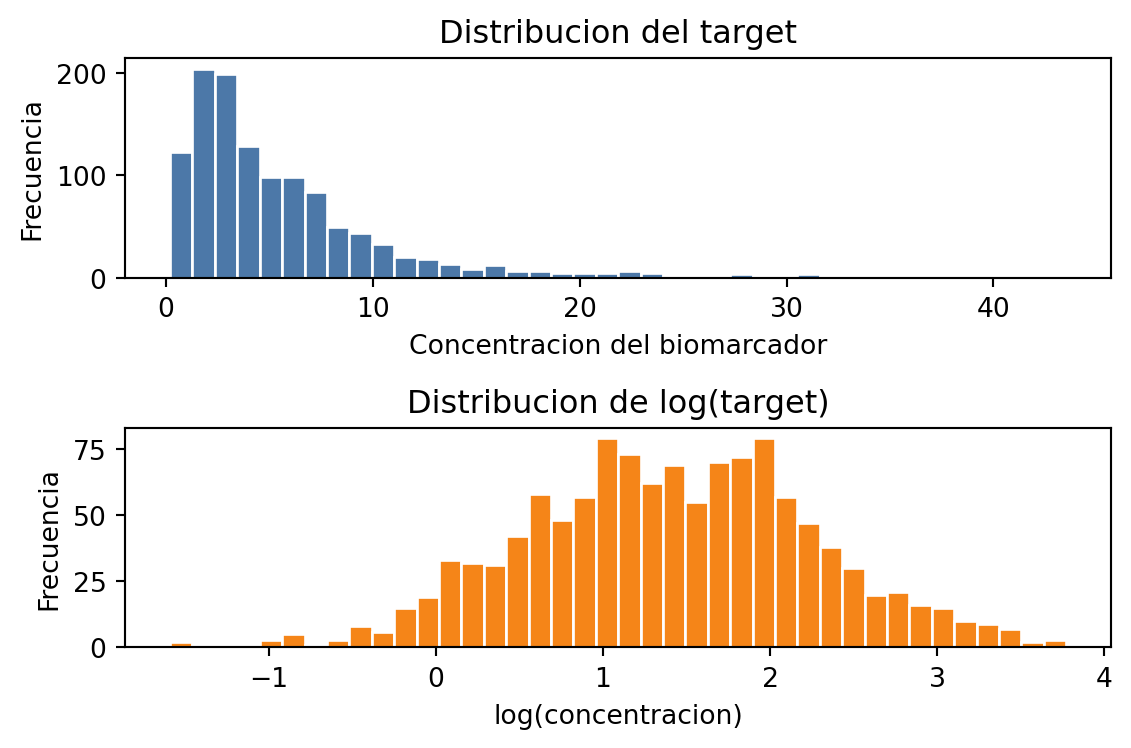
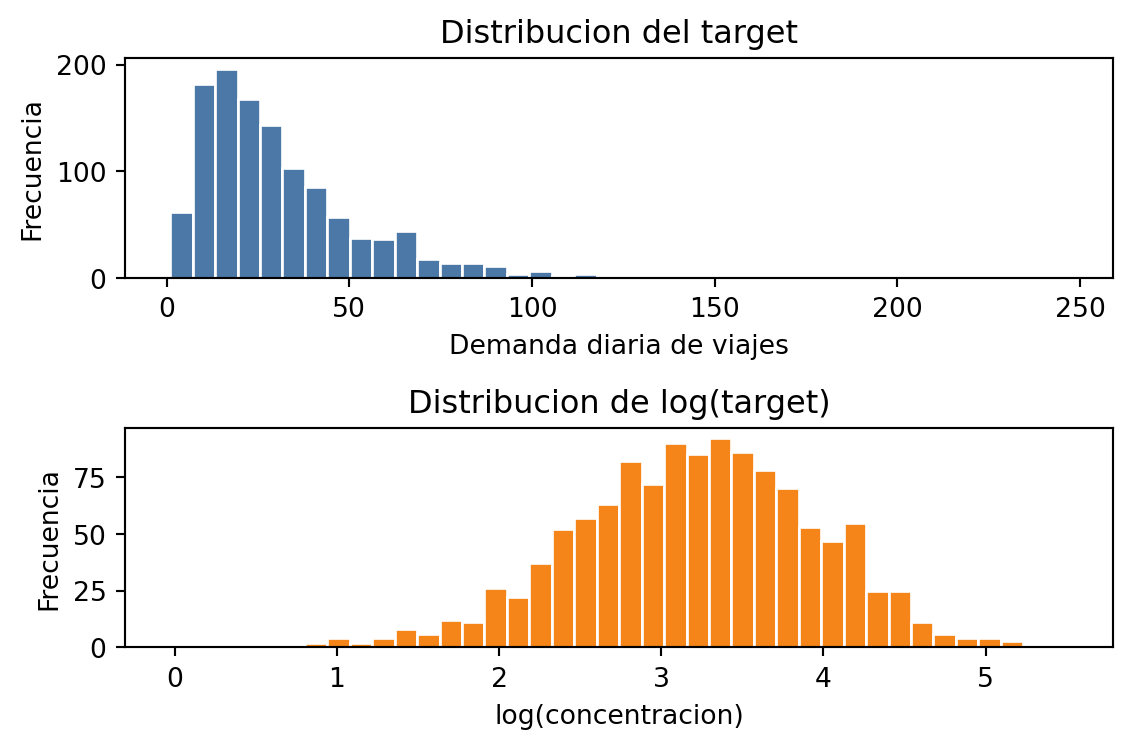
update files

diff --git a/inf398/evals/tarea2.html b/inf398/evals/tarea2.html
@@ -163,7 +163,7 @@ window.Quarto = {
 <meta property="og:description" content="Redes neuronales feedforward, verosimilitud y regularización">
 <meta property="og:image" content="https://aavelozb.github.io/inf398/evals/tarea2_files/figure-html/cell-2-output-1.png">
 <meta property="og:image:height" content="748">
-<meta property="og:image:width" content="1131">
+<meta property="og:image:width" content="1132">
 </head>
 
 <body class="nav-sidebar docked quarto-light"><script id="quarto-html-before-body" type="application/javascript">
@@ -371,6 +371,7 @@ window.Quarto = {
   <li><a href="#regularización-explícita-implícita-y-heurística" id="toc-regularización-explícita-implícita-y-heurística" class="nav-link" data-scroll-target="#regularización-explícita-implícita-y-heurística">4. Regularización explícita, implícita y heurística</a></li>
   <li><a href="#sensibilidad-ruido-y-sesgo-varianza" id="toc-sensibilidad-ruido-y-sesgo-varianza" class="nav-link" data-scroll-target="#sensibilidad-ruido-y-sesgo-varianza">5. Sensibilidad, ruido y sesgo-varianza</a></li>
   <li><a href="#preguntas-de-discusión" id="toc-preguntas-de-discusión" class="nav-link" data-scroll-target="#preguntas-de-discusión">6. Preguntas de discusión</a></li>
+  <li><a href="#pregunta-adicional-red-neuronal-con-salidas-mixtas" id="toc-pregunta-adicional-red-neuronal-con-salidas-mixtas" class="nav-link" data-scroll-target="#pregunta-adicional-red-neuronal-con-salidas-mixtas">7. Pregunta adicional: red neuronal con salidas mixtas</a></li>
   <li><a href="#entregables" id="toc-entregables" class="nav-link" data-scroll-target="#entregables">Entregables</a></li>
   </ul>
 </nav>
@@ -405,53 +406,53 @@ window.Quarto = {
 <li>El entrenamiento como minimización de una función de pérdida derivada desde máxima verosimilitud.</li>
 <li>La evaluación de generalización mediante capacidad del modelo, sesgo-varianza y estrategias de regularización.</li>
 </ol>
-<p>El problema se contextualiza en la predicción de una variable biomédica positiva. Suponga que se quiere estimar la concentración de un biomarcador plasmático a partir de variables clínicas y experimentales. Por definición, la concentración real no puede ser negativa, pero un modelo de regresión estándar con pérdida cuadrática no impone esta restricción de manera explícita.</p>
+<p>El problema se contextualiza en la predicción de demanda operacional para un sistema de bicicletas compartidas. Suponga que se quiere estimar el número esperado de viajes diarios en una estación a partir de variables de calendario, clima y operación. Por definición, la demanda real no puede ser negativa, pero un modelo de regresión estándar con pérdida cuadrática no impone esta restricción de manera explícita.</p>
 <p>Trabajaremos con un conjunto de datos sintético. Puede usar el siguiente generador:</p>
-<div id="a6444926" class="cell" data-execution_count="1">
+<div id="b55eb769" class="cell" data-execution_count="1">
 <div class="sourceCode cell-code" id="cb1"><pre class="sourceCode python code-with-copy"><code class="sourceCode python"><span id="cb1-1"><a href="#cb1-1" aria-hidden="true" tabindex="-1"></a><span class="im">import</span> numpy <span class="im">as</span> np</span>
 <span id="cb1-2"><a href="#cb1-2" aria-hidden="true" tabindex="-1"></a><span class="im">import</span> pandas <span class="im">as</span> pd</span>
 <span id="cb1-3"><a href="#cb1-3" aria-hidden="true" tabindex="-1"></a><span class="im">import</span> matplotlib.pyplot <span class="im">as</span> plt</span>
 <span id="cb1-4"><a href="#cb1-4" aria-hidden="true" tabindex="-1"></a></span>
-<span id="cb1-5"><a href="#cb1-5" aria-hidden="true" tabindex="-1"></a><span class="kw">def</span> generar_datos_biomarcador(n<span class="op">=</span><span class="dv">1200</span>, ruido<span class="op">=</span><span class="fl">0.25</span>, seed<span class="op">=</span><span class="dv">42</span>):</span>
+<span id="cb1-5"><a href="#cb1-5" aria-hidden="true" tabindex="-1"></a><span class="kw">def</span> generar_datos_demanda(n<span class="op">=</span><span class="dv">1200</span>, ruido<span class="op">=</span><span class="fl">0.25</span>, seed<span class="op">=</span><span class="dv">42</span>):</span>
 <span id="cb1-6"><a href="#cb1-6" aria-hidden="true" tabindex="-1"></a>    rng <span class="op">=</span> np.random.default_rng(seed)</span>
 <span id="cb1-7"><a href="#cb1-7" aria-hidden="true" tabindex="-1"></a></span>
-<span id="cb1-8"><a href="#cb1-8" aria-hidden="true" tabindex="-1"></a>    edad <span class="op">=</span> rng.uniform(<span class="dv">18</span>, <span class="dv">90</span>, size<span class="op">=</span>n)</span>
-<span id="cb1-9"><a href="#cb1-9" aria-hidden="true" tabindex="-1"></a>    dosis <span class="op">=</span> rng.uniform(<span class="dv">0</span>, <span class="dv">1</span>, size<span class="op">=</span>n)</span>
-<span id="cb1-10"><a href="#cb1-10" aria-hidden="true" tabindex="-1"></a>    horas <span class="op">=</span> rng.uniform(<span class="dv">0</span>, <span class="dv">24</span>, size<span class="op">=</span>n)</span>
-<span id="cb1-11"><a href="#cb1-11" aria-hidden="true" tabindex="-1"></a>    indice_riesgo <span class="op">=</span> rng.normal(<span class="dv">0</span>, <span class="dv">1</span>, size<span class="op">=</span>n)</span>
-<span id="cb1-12"><a href="#cb1-12" aria-hidden="true" tabindex="-1"></a>    inflamacion_base <span class="op">=</span> rng.gamma(shape<span class="op">=</span><span class="fl">2.0</span>, scale<span class="op">=</span><span class="fl">1.0</span>, size<span class="op">=</span>n)</span>
+<span id="cb1-8"><a href="#cb1-8" aria-hidden="true" tabindex="-1"></a>    temperatura <span class="op">=</span> rng.uniform(<span class="dv">0</span>, <span class="dv">35</span>, size<span class="op">=</span>n)</span>
+<span id="cb1-9"><a href="#cb1-9" aria-hidden="true" tabindex="-1"></a>    lluvia <span class="op">=</span> rng.gamma(shape<span class="op">=</span><span class="fl">1.5</span>, scale<span class="op">=</span><span class="fl">4.0</span>, size<span class="op">=</span>n)</span>
+<span id="cb1-10"><a href="#cb1-10" aria-hidden="true" tabindex="-1"></a>    hora_punta <span class="op">=</span> rng.uniform(<span class="dv">0</span>, <span class="dv">1</span>, size<span class="op">=</span>n)</span>
+<span id="cb1-11"><a href="#cb1-11" aria-hidden="true" tabindex="-1"></a>    dia_laboral <span class="op">=</span> rng.binomial(<span class="dv">1</span>, <span class="fl">0.72</span>, size<span class="op">=</span>n)</span>
+<span id="cb1-12"><a href="#cb1-12" aria-hidden="true" tabindex="-1"></a>    eventos <span class="op">=</span> rng.poisson(<span class="fl">0.25</span>, size<span class="op">=</span>n)</span>
 <span id="cb1-13"><a href="#cb1-13" aria-hidden="true" tabindex="-1"></a></span>
 <span id="cb1-14"><a href="#cb1-14" aria-hidden="true" tabindex="-1"></a>    X <span class="op">=</span> np.column_stack([</span>
-<span id="cb1-15"><a href="#cb1-15" aria-hidden="true" tabindex="-1"></a>        edad,</span>
-<span id="cb1-16"><a href="#cb1-16" aria-hidden="true" tabindex="-1"></a>        dosis,</span>
-<span id="cb1-17"><a href="#cb1-17" aria-hidden="true" tabindex="-1"></a>        horas,</span>
-<span id="cb1-18"><a href="#cb1-18" aria-hidden="true" tabindex="-1"></a>        indice_riesgo,</span>
-<span id="cb1-19"><a href="#cb1-19" aria-hidden="true" tabindex="-1"></a>        inflamacion_base,</span>
+<span id="cb1-15"><a href="#cb1-15" aria-hidden="true" tabindex="-1"></a>        temperatura,</span>
+<span id="cb1-16"><a href="#cb1-16" aria-hidden="true" tabindex="-1"></a>        lluvia,</span>
+<span id="cb1-17"><a href="#cb1-17" aria-hidden="true" tabindex="-1"></a>        hora_punta,</span>
+<span id="cb1-18"><a href="#cb1-18" aria-hidden="true" tabindex="-1"></a>        dia_laboral,</span>
+<span id="cb1-19"><a href="#cb1-19" aria-hidden="true" tabindex="-1"></a>        eventos,</span>
 <span id="cb1-20"><a href="#cb1-20" aria-hidden="true" tabindex="-1"></a>    ])</span>
 <span id="cb1-21"><a href="#cb1-21" aria-hidden="true" tabindex="-1"></a></span>
 <span id="cb1-22"><a href="#cb1-22" aria-hidden="true" tabindex="-1"></a>    <span class="co"># Funcion latente no lineal. La variable observada se genera como positiva.</span></span>
 <span id="cb1-23"><a href="#cb1-23" aria-hidden="true" tabindex="-1"></a>    g <span class="op">=</span> (</span>
-<span id="cb1-24"><a href="#cb1-24" aria-hidden="true" tabindex="-1"></a>        <span class="op">-</span><span class="fl">1.2</span></span>
-<span id="cb1-25"><a href="#cb1-25" aria-hidden="true" tabindex="-1"></a>        <span class="op">+</span> <span class="fl">0.018</span> <span class="op">*</span> edad</span>
-<span id="cb1-26"><a href="#cb1-26" aria-hidden="true" tabindex="-1"></a>        <span class="op">+</span> <span class="fl">1.4</span> <span class="op">*</span> np.sin(np.pi <span class="op">*</span> dosis)</span>
-<span id="cb1-27"><a href="#cb1-27" aria-hidden="true" tabindex="-1"></a>        <span class="op">+</span> <span class="fl">0.03</span> <span class="op">*</span> horas</span>
-<span id="cb1-28"><a href="#cb1-28" aria-hidden="true" tabindex="-1"></a>        <span class="op">+</span> <span class="fl">0.55</span> <span class="op">*</span> indice_riesgo</span>
-<span id="cb1-29"><a href="#cb1-29" aria-hidden="true" tabindex="-1"></a>        <span class="op">+</span> <span class="fl">0.35</span> <span class="op">*</span> np.sqrt(inflamacion_base)</span>
-<span id="cb1-30"><a href="#cb1-30" aria-hidden="true" tabindex="-1"></a>        <span class="op">-</span> <span class="fl">0.015</span> <span class="op">*</span> dosis <span class="op">*</span> horas</span>
+<span id="cb1-24"><a href="#cb1-24" aria-hidden="true" tabindex="-1"></a>        <span class="fl">2.0</span></span>
+<span id="cb1-25"><a href="#cb1-25" aria-hidden="true" tabindex="-1"></a>        <span class="op">+</span> <span class="fl">0.045</span> <span class="op">*</span> temperatura</span>
+<span id="cb1-26"><a href="#cb1-26" aria-hidden="true" tabindex="-1"></a>        <span class="op">-</span> <span class="fl">0.055</span> <span class="op">*</span> lluvia</span>
+<span id="cb1-27"><a href="#cb1-27" aria-hidden="true" tabindex="-1"></a>        <span class="op">+</span> <span class="fl">1.1</span> <span class="op">*</span> np.sin(np.pi <span class="op">*</span> hora_punta)</span>
+<span id="cb1-28"><a href="#cb1-28" aria-hidden="true" tabindex="-1"></a>        <span class="op">+</span> <span class="fl">0.35</span> <span class="op">*</span> dia_laboral</span>
+<span id="cb1-29"><a href="#cb1-29" aria-hidden="true" tabindex="-1"></a>        <span class="op">+</span> <span class="fl">0.22</span> <span class="op">*</span> eventos</span>
+<span id="cb1-30"><a href="#cb1-30" aria-hidden="true" tabindex="-1"></a>        <span class="op">-</span> <span class="fl">0.0025</span> <span class="op">*</span> temperatura <span class="op">*</span> lluvia</span>
 <span id="cb1-31"><a href="#cb1-31" aria-hidden="true" tabindex="-1"></a>    )</span>
 <span id="cb1-32"><a href="#cb1-32" aria-hidden="true" tabindex="-1"></a></span>
 <span id="cb1-33"><a href="#cb1-33" aria-hidden="true" tabindex="-1"></a>    y <span class="op">=</span> np.exp(g <span class="op">+</span> rng.normal(<span class="dv">0</span>, ruido, size<span class="op">=</span>n))</span>
 <span id="cb1-34"><a href="#cb1-34" aria-hidden="true" tabindex="-1"></a></span>
-<span id="cb1-35"><a href="#cb1-35" aria-hidden="true" tabindex="-1"></a>    columnas <span class="op">=</span> [<span class="st">"edad"</span>, <span class="st">"dosis"</span>, <span class="st">"horas"</span>, <span class="st">"indice_riesgo"</span>, <span class="st">"inflamacion_base"</span>]</span>
+<span id="cb1-35"><a href="#cb1-35" aria-hidden="true" tabindex="-1"></a>    columnas <span class="op">=</span> [<span class="st">"temperatura"</span>, <span class="st">"lluvia"</span>, <span class="st">"hora_punta"</span>, <span class="st">"dia_laboral"</span>, <span class="st">"eventos"</span>]</span>
 <span id="cb1-36"><a href="#cb1-36" aria-hidden="true" tabindex="-1"></a>    <span class="cf">return</span> pd.DataFrame(X, columns<span class="op">=</span>columnas), y</span>
 <span id="cb1-37"><a href="#cb1-37" aria-hidden="true" tabindex="-1"></a></span>
-<span id="cb1-38"><a href="#cb1-38" aria-hidden="true" tabindex="-1"></a>X, y <span class="op">=</span> generar_datos_biomarcador()</span>
+<span id="cb1-38"><a href="#cb1-38" aria-hidden="true" tabindex="-1"></a>X, y <span class="op">=</span> generar_datos_demanda()</span>
 <span id="cb1-39"><a href="#cb1-39" aria-hidden="true" tabindex="-1"></a></span>
 <span id="cb1-40"><a href="#cb1-40" aria-hidden="true" tabindex="-1"></a>fig, axes <span class="op">=</span> plt.subplots(<span class="dv">2</span>, <span class="dv">1</span>, figsize<span class="op">=</span>(<span class="dv">6</span>, <span class="dv">4</span>))</span>
 <span id="cb1-41"><a href="#cb1-41" aria-hidden="true" tabindex="-1"></a></span>
 <span id="cb1-42"><a href="#cb1-42" aria-hidden="true" tabindex="-1"></a>axes[<span class="dv">0</span>].hist(y, bins<span class="op">=</span><span class="dv">40</span>, color<span class="op">=</span><span class="st">"#4c78a8"</span>, edgecolor<span class="op">=</span><span class="st">"white"</span>)</span>
 <span id="cb1-43"><a href="#cb1-43" aria-hidden="true" tabindex="-1"></a>axes[<span class="dv">0</span>].set_title(<span class="st">"Distribucion del target"</span>)</span>
-<span id="cb1-44"><a href="#cb1-44" aria-hidden="true" tabindex="-1"></a>axes[<span class="dv">0</span>].set_xlabel(<span class="st">"Concentracion del biomarcador"</span>)</span>
+<span id="cb1-44"><a href="#cb1-44" aria-hidden="true" tabindex="-1"></a>axes[<span class="dv">0</span>].set_xlabel(<span class="st">"Demanda diaria de viajes"</span>)</span>
 <span id="cb1-45"><a href="#cb1-45" aria-hidden="true" tabindex="-1"></a>axes[<span class="dv">0</span>].set_ylabel(<span class="st">"Frecuencia"</span>)</span>
 <span id="cb1-46"><a href="#cb1-46" aria-hidden="true" tabindex="-1"></a></span>
 <span id="cb1-47"><a href="#cb1-47" aria-hidden="true" tabindex="-1"></a>axes[<span class="dv">1</span>].hist(np.log(y), bins<span class="op">=</span><span class="dv">40</span>, color<span class="op">=</span><span class="st">"#f58518"</span>, edgecolor<span class="op">=</span><span class="st">"white"</span>)</span>
@@ -510,7 +511,7 @@ L(\phi) = \frac{1}{I}\sum_{i=1}^{I} (y_i - f[x_i,\phi])^2.
 </section>
 <section id="verosimilitud-para-una-variable-objetivo-positiva" class="level2">
 <h2 class="anchored" data-anchor-id="verosimilitud-para-una-variable-objetivo-positiva">3. Verosimilitud para una variable objetivo positiva</h2>
-<p>La concentración del biomarcador es estrictamente positiva. Por lo tanto, una pérdida cuadrática con salida lineal puede ser inadecuada, ya que no representa explícitamente el dominio del target ni su posible asimetría.</p>
+<p>La demanda diaria es estrictamente positiva. Por lo tanto, una pérdida cuadrática con salida lineal puede ser inadecuada, ya que no representa explícitamente el dominio del target ni su posible asimetría.</p>
 <p>Modifique la formulación probabilística del modelo para que la distribución condicional de la variable objetivo tenga soporte positivo. Debe elegir al menos una de las siguientes alternativas:</p>
 <ol type="1">
 <li><strong>Modelo log-normal:</strong> suponga que <span class="math inline">\(\log(y)\)</span> sigue una distribución normal. La red puede predecir <span class="math inline">\(\mu(x)\)</span> y opcionalmente <span class="math inline">\(\sigma(x)\)</span> o una varianza global.</li>
@@ -526,7 +527,7 @@ L(\phi) = \frac{1}{I}\sum_{i=1}^{I} (y_i - f[x_i,\phi])^2.
 <li>Implemente la pérdida en su red <em>from scratch</em> o en PyTorch.</li>
 <li>Compare sus resultados contra el modelo con MSE.</li>
 </ul>
-<p>Incluya una discusión sobre el efecto de esta modificación en las predicciones bajas. En particular: ¿disminuye la frecuencia de predicciones negativas o cercanas a cero?, ¿mejora el error relativo para pacientes con concentraciones pequeñas?, ¿cambia la calibración de la incertidumbre si el modelo predice una varianza?</p>
+<p>Incluya una discusión sobre el efecto de esta modificación en las predicciones bajas. En particular: ¿disminuye la frecuencia de predicciones negativas o cercanas a cero?, ¿mejora el error relativo para estaciones con baja demanda?, ¿cambia la calibración de la incertidumbre si el modelo predice una varianza?</p>
 </section>
 <section id="regularización-explícita-implícita-y-heurística" class="level2">
 <h2 class="anchored" data-anchor-id="regularización-explícita-implícita-y-heurística">4. Regularización explícita, implícita y heurística</h2>
@@ -552,6 +553,7 @@ L(\phi) = \frac{1}{I}\sum_{i=1}^{I} (y_i - f[x_i,\phi])^2.
 <li>¿En qué casos el <em>early stopping</em> se comporta de manera similar a una penalización <span class="math inline">\(\ell_2\)</span>?</li>
 <li>¿Existe evidencia de doble descenso o de una relación no monótona entre capacidad y error de prueba?</li>
 <li>Si usa dropout, ¿cómo cambia el comportamiento cuando aumenta la probabilidad de apagar unidades?</li>
+<li>Para la red implementada <em>from scratch</em>, compare las magnitudes de los pesos del modelo sin regularización y del modelo regularizado. Reporte al menos una norma global de los pesos, por ejemplo <span class="math inline">\(\|\phi\|_2\)</span> o <span class="math inline">\(\|\phi\|_1\)</span>, y una visualización de la distribución de pesos por capa. ¿La regularización produjo pesos de menor magnitud? ¿El efecto fue igual en todas las capas?</li>
 </ol>
 </section>
 <section id="sensibilidad-ruido-y-sesgo-varianza" class="level2">
@@ -583,6 +585,33 @@ L(\phi) = \frac{1}{I}\sum_{i=1}^{I} (y_i - f[x_i,\phi])^2.
 <li>¿Qué costo computacional se tiene al usar un ensamble y cuándo se justificaría?</li>
 </ol>
 </section>
+<section id="pregunta-adicional-red-neuronal-con-salidas-mixtas" class="level2">
+<h2 class="anchored" data-anchor-id="pregunta-adicional-red-neuronal-con-salidas-mixtas">7. Pregunta adicional: red neuronal con salidas mixtas</h2>
+<p>En muchos problemas reales, una misma entrada debe alimentar varias predicciones de naturaleza distinta. Extienda el problema anterior para que la red tenga tres salidas:</p>
+<ol type="1">
+<li><strong>Salida continua:</strong> una variable real que puede tomar valores positivos o negativos, por ejemplo el desvío de demanda respecto del promedio histórico de la estación.</li>
+<li><strong>Salida continua positiva:</strong> una variable estrictamente positiva, por ejemplo la demanda diaria esperada de viajes.</li>
+<li><strong>Salida categórica:</strong> una clase operacional, por ejemplo <code>baja</code>, <code>normal</code> o <code>alta</code> congestión del sistema.</li>
+</ol>
+<p>Puede generar estos tres targets de manera sintética a partir de las mismas variables de entrada, o elegir una base de datos simple y definir targets razonables. En ambos casos debe explicar cómo se construyeron las salidas y qué representa cada una.</p>
+<p>Para esta parte <strong>no se exige implementación from scratch</strong>. Implemente la red en PyTorch con un tronco compartido y tres cabezales de salida. Defina una función de costo total apropiada para este caso, por ejemplo:</p>
+<p><span class="math display">\[
+L_{\text{total}} =
+\lambda_1 L_{\text{continua}}
++ \lambda_2 L_{\text{positiva}}
++ \lambda_3 L_{\text{categorica}},
+\]</span></p>
+<p>donde puede usar MSE o MAE para la salida continua, una NLL log-normal/Gamma o una transformación positiva para la salida positiva, y entropía cruzada para la salida categórica.</p>
+<p>Responda:</p>
+<ul>
+<li>¿Qué función de pérdida eligió para cada salida y por qué?</li>
+<li>¿Cómo garantiza que la salida positiva respete su dominio?</li>
+<li>¿Cómo eligió o ajustó los pesos <span class="math inline">\(\lambda_1, \lambda_2, \lambda_3\)</span>?</li>
+<li>¿Qué métricas reporta para cada salida?</li>
+<li>¿Observa conflicto entre tareas, por ejemplo mejora en una salida y empeoramiento en otra?</li>
+<li>¿Qué ventajas y desventajas tiene usar un tronco compartido en lugar de tres modelos separados?</li>
+</ul>
+</section>
 <section id="entregables" class="level2">
 <h2 class="anchored" data-anchor-id="entregables">Entregables</h2>
 <p>Debe entregar un notebook o informe reproducible que incluya lo siguiente:</p>
@@ -593,6 +622,7 @@ L(\phi) = \frac{1}{I}\sum_{i=1}^{I} (y_i - f[x_i,\phi])^2.
 <li>Tablas comparativas de resultados.</li>
 <li>Figuras de entrenamiento, validación y predicción.</li>
 <li>Análisis de regularización y sensibilidad al ruido.</li>
+<li>Implementación en PyTorch de la red con salidas mixtas: continua, positiva y categórica.</li>
 <li>Respuestas a las preguntas de discusión.</li>
 <li>Conclusiones sobre qué modelo recomendaría y bajo qué restricciones.</li>
 </ul>

diff --git a/bme513/evals/tarea2.html b/bme513/evals/tarea2.html
@@ -365,12 +365,13 @@ window.Quarto = {
     <h2 id="toc-title">Contenido de la página</h2>
    
   <ul>
-  <li><a href="#red-neuronal-feedforward-desde-cero" id="toc-red-neuronal-feedforward-desde-cero" class="nav-link active" data-scroll-target="#red-neuronal-feedforward-desde-cero">1. Red neuronal feedforward desde cero</a></li>
+  <li><a href="#red-neuronal-feedforward-desde-cero-from-scratch" id="toc-red-neuronal-feedforward-desde-cero-from-scratch" class="nav-link active" data-scroll-target="#red-neuronal-feedforward-desde-cero-from-scratch">1. Red neuronal feedforward desde cero (from scratch)</a></li>
   <li><a href="#comparación-con-pytorch" id="toc-comparación-con-pytorch" class="nav-link" data-scroll-target="#comparación-con-pytorch">2. Comparación con PyTorch</a></li>
   <li><a href="#verosimilitud-para-una-variable-objetivo-positiva" id="toc-verosimilitud-para-una-variable-objetivo-positiva" class="nav-link" data-scroll-target="#verosimilitud-para-una-variable-objetivo-positiva">3. Verosimilitud para una variable objetivo positiva</a></li>
   <li><a href="#regularización-explícita-implícita-y-heurística" id="toc-regularización-explícita-implícita-y-heurística" class="nav-link" data-scroll-target="#regularización-explícita-implícita-y-heurística">4. Regularización explícita, implícita y heurística</a></li>
   <li><a href="#sensibilidad-ruido-y-sesgo-varianza" id="toc-sensibilidad-ruido-y-sesgo-varianza" class="nav-link" data-scroll-target="#sensibilidad-ruido-y-sesgo-varianza">5. Sensibilidad, ruido y sesgo-varianza</a></li>
   <li><a href="#preguntas-de-discusión" id="toc-preguntas-de-discusión" class="nav-link" data-scroll-target="#preguntas-de-discusión">6. Preguntas de discusión</a></li>
+  <li><a href="#red-neuronal-con-salidas-mixtas" id="toc-red-neuronal-con-salidas-mixtas" class="nav-link" data-scroll-target="#red-neuronal-con-salidas-mixtas">7. Red neuronal con salidas mixtas</a></li>
   <li><a href="#entregables" id="toc-entregables" class="nav-link" data-scroll-target="#entregables">Entregables</a></li>
   </ul>
 </nav>
@@ -407,7 +408,7 @@ window.Quarto = {
 </ol>
 <p>El problema se contextualiza en la predicción de una variable biomédica positiva. Suponga que se quiere estimar la concentración de un biomarcador plasmático a partir de variables clínicas y experimentales. Por definición, la concentración real no puede ser negativa, pero un modelo de regresión estándar con pérdida cuadrática no impone esta restricción de manera explícita.</p>
 <p>Trabajaremos con un conjunto de datos sintético. Puede usar el siguiente generador:</p>
-<div id="792686d3" class="cell" data-execution_count="1">
+<div id="ceca7367" class="cell" data-execution_count="1">
 <div class="sourceCode cell-code" id="cb1"><pre class="sourceCode python code-with-copy"><code class="sourceCode python"><span id="cb1-1"><a href="#cb1-1" aria-hidden="true" tabindex="-1"></a><span class="im">import</span> numpy <span class="im">as</span> np</span>
 <span id="cb1-2"><a href="#cb1-2" aria-hidden="true" tabindex="-1"></a><span class="im">import</span> pandas <span class="im">as</span> pd</span>
 <span id="cb1-3"><a href="#cb1-3" aria-hidden="true" tabindex="-1"></a><span class="im">import</span> matplotlib.pyplot <span class="im">as</span> plt</span>
@@ -470,8 +471,8 @@ window.Quarto = {
 </div>
 </div>
 <p>Antes de entrenar, divida los datos en conjuntos de entrenamiento, validación y prueba. Estandarice las variables de entrada <strong>usando sólo estadísticas del conjunto de entrenamiento</strong>. No use el conjunto de prueba para seleccionar arquitectura, hiperparámetros, número de épocas ni criterios de parada.</p>
-<section id="red-neuronal-feedforward-desde-cero" class="level2">
-<h2 class="anchored" data-anchor-id="red-neuronal-feedforward-desde-cero">1. Red neuronal feedforward desde cero</h2>
+<section id="red-neuronal-feedforward-desde-cero-from-scratch" class="level2">
+<h2 class="anchored" data-anchor-id="red-neuronal-feedforward-desde-cero-from-scratch">1. Red neuronal feedforward desde cero (from scratch)</h2>
 <p>Implemente una red neuronal <em>feedforward</em> para regresión usando únicamente librerías base como <code>numpy</code>, <code>pandas</code> y <code>matplotlib</code>. No use <code>torch</code>, <code>tensorflow</code>, <code>jax</code>, <code>sklearn.neural_network</code> ni diferenciación automática para esta parte.</p>
 <p>Su implementación debe incluir:</p>
 <ul>
@@ -552,6 +553,7 @@ L(\phi) = \frac{1}{I}\sum_{i=1}^{I} (y_i - f[x_i,\phi])^2.
 <li>¿En qué casos el <em>early stopping</em> se comporta de manera similar a una penalización <span class="math inline">\(\ell_2\)</span>?</li>
 <li>¿Existe evidencia de doble descenso o de una relación no monótona entre capacidad y error de prueba?</li>
 <li>Si usa dropout, ¿cómo cambia el comportamiento cuando aumenta la probabilidad de apagar unidades?</li>
+<li>Para la red implementada <em>from scratch</em>, compare las magnitudes de los pesos del modelo sin regularización y del modelo regularizado. Reporte al menos una norma global de los pesos, por ejemplo <span class="math inline">\(\|\phi\|_2\)</span> o <span class="math inline">\(\|\phi\|_1\)</span>, y una visualización de la distribución de pesos por capa. ¿La regularización produjo pesos de menor magnitud? ¿El efecto fue igual en todas las capas?</li>
 </ol>
 </section>
 <section id="sensibilidad-ruido-y-sesgo-varianza" class="level2">
@@ -583,6 +585,31 @@ L(\phi) = \frac{1}{I}\sum_{i=1}^{I} (y_i - f[x_i,\phi])^2.
 <li>¿Qué costo computacional se tiene al usar un ensamble y cuándo se justificaría?</li>
 </ol>
 </section>
+<section id="red-neuronal-con-salidas-mixtas" class="level2">
+<h2 class="anchored" data-anchor-id="red-neuronal-con-salidas-mixtas">7. Red neuronal con salidas mixtas</h2>
+<p>En muchos problemas biomédicos, una misma entrada clínica debe alimentar varias predicciones de naturaleza distinta. Extienda el problema anterior para que la red tenga tres salidas:</p>
+<ol type="1">
+<li><strong>Salida continua:</strong> una variable real que puede tomar valores positivos o negativos, por ejemplo el cambio esperado de un puntaje fisiológico respecto de una línea basal.</li>
+<li><strong>Salida continua positiva:</strong> una variable estrictamente positiva, por ejemplo la concentración esperada del biomarcador plasmático.</li>
+<li><strong>Salida categórica:</strong> una clase clínica, por ejemplo <code>estable</code>, <code>observación</code> o <code>crítico</code>.</li>
+</ol>
+<p>Puede generar estos tres targets de manera sintética a partir de las mismas variables de entrada, o elegir una base de datos biomédica simple y definir targets razonables. En ambos casos debe explicar cómo se construyeron las salidas y qué representa cada una.</p>
+<p>Para esta parte <strong>no se exige implementación from scratch</strong>. Implemente la red en PyTorch con un tronco compartido y tres cabezales de salida. Defina una función de costo total apropiada para este caso, por ejemplo: <span class="math display">\[
+L_{\text{total}} =
+\lambda_1 L_{\text{continua}}
++ \lambda_2 L_{\text{positiva}}
++ \lambda_3 L_{\text{categorica}},
+\]</span> donde puede usar MSE o MAE para la salida continua, una NLL log-normal/Gamma o una transformación positiva para la salida positiva, y entropía cruzada para la salida categórica.</p>
+<p>Responda:</p>
+<ul>
+<li>¿Qué función de pérdida eligió para cada salida y por qué?</li>
+<li>¿Cómo garantiza que la salida positiva respete su dominio?</li>
+<li>¿Cómo eligió o ajustó los pesos <span class="math inline">\(\lambda_1, \lambda_2, \lambda_3\)</span>?</li>
+<li>¿Qué métricas reporta para cada salida?</li>
+<li>¿Observa conflicto entre tareas, por ejemplo mejora en una salida y empeoramiento en otra?</li>
+<li>¿Qué ventajas y desventajas tiene usar un tronco compartido en lugar de tres modelos separados?</li>
+</ul>
+</section>
 <section id="entregables" class="level2">
 <h2 class="anchored" data-anchor-id="entregables">Entregables</h2>
 <p>Debe entregar un notebook o informe reproducible que incluya lo siguiente:</p>
@@ -593,6 +620,7 @@ L(\phi) = \frac{1}{I}\sum_{i=1}^{I} (y_i - f[x_i,\phi])^2.
 <li>Tablas comparativas de resultados.</li>
 <li>Figuras de entrenamiento, validación y predicción.</li>
 <li>Análisis de regularización y sensibilidad al ruido.</li>
+<li>Implementación en PyTorch de la red con salidas mixtas: continua, positiva y categórica.</li>
 <li>Respuestas a las preguntas de discusión.</li>
 <li>Conclusiones sobre qué modelo recomendaría y bajo qué restricciones.</li>
 </ul>